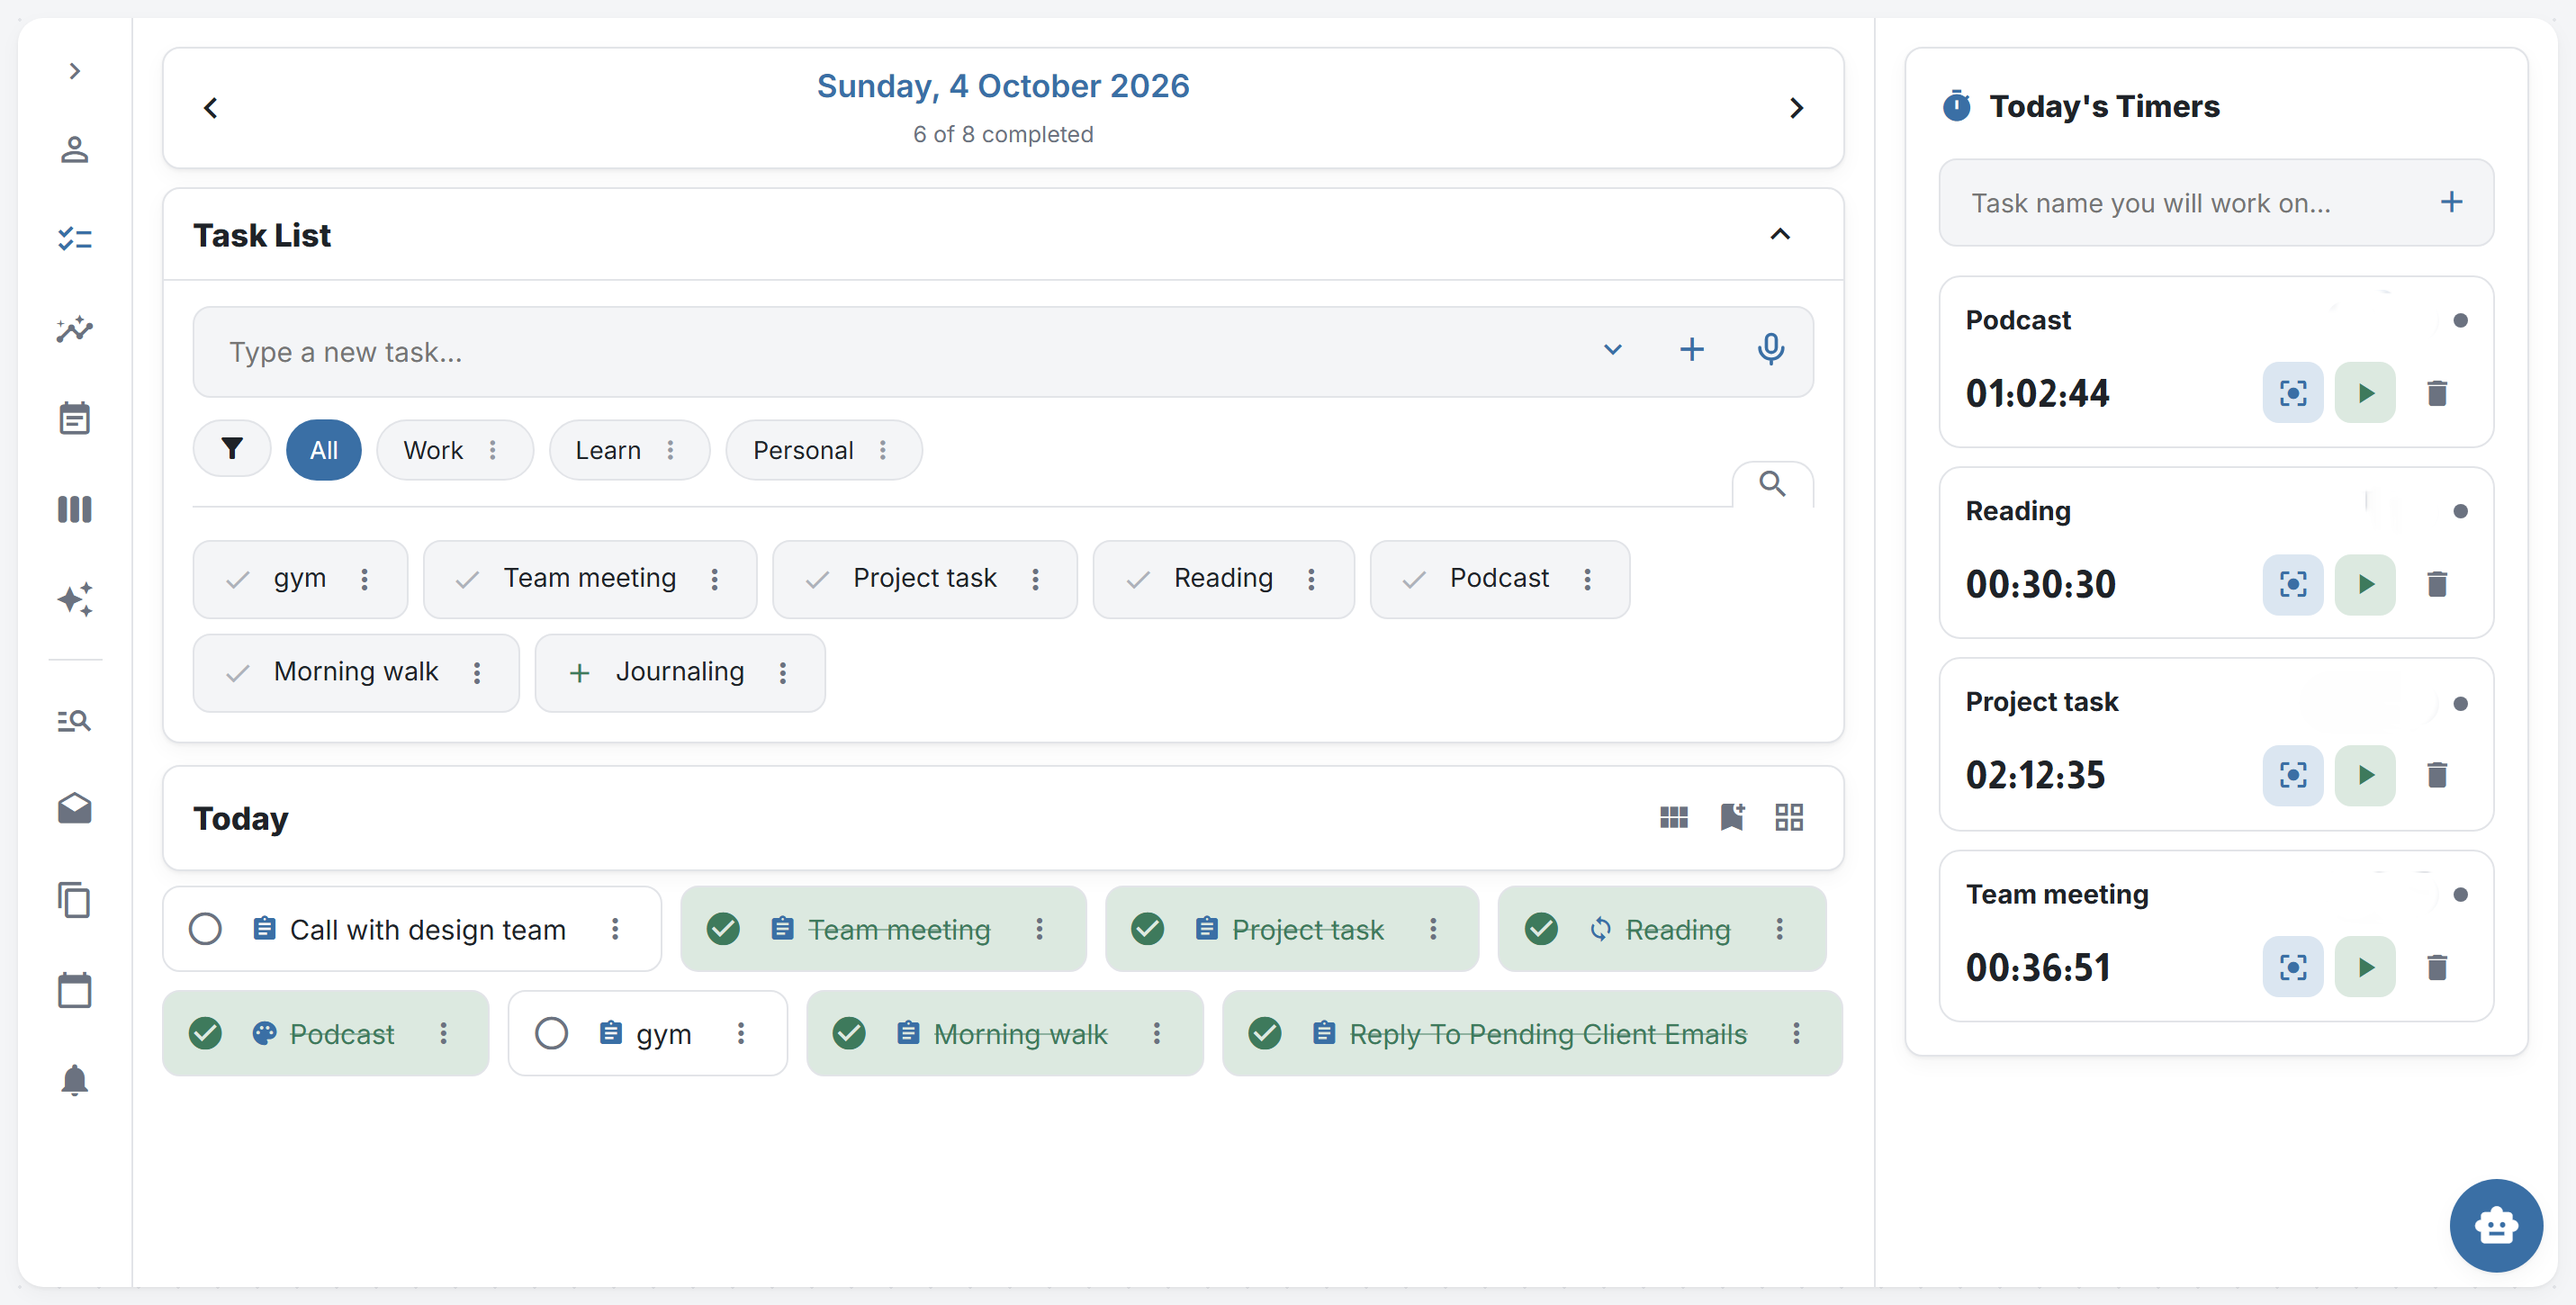
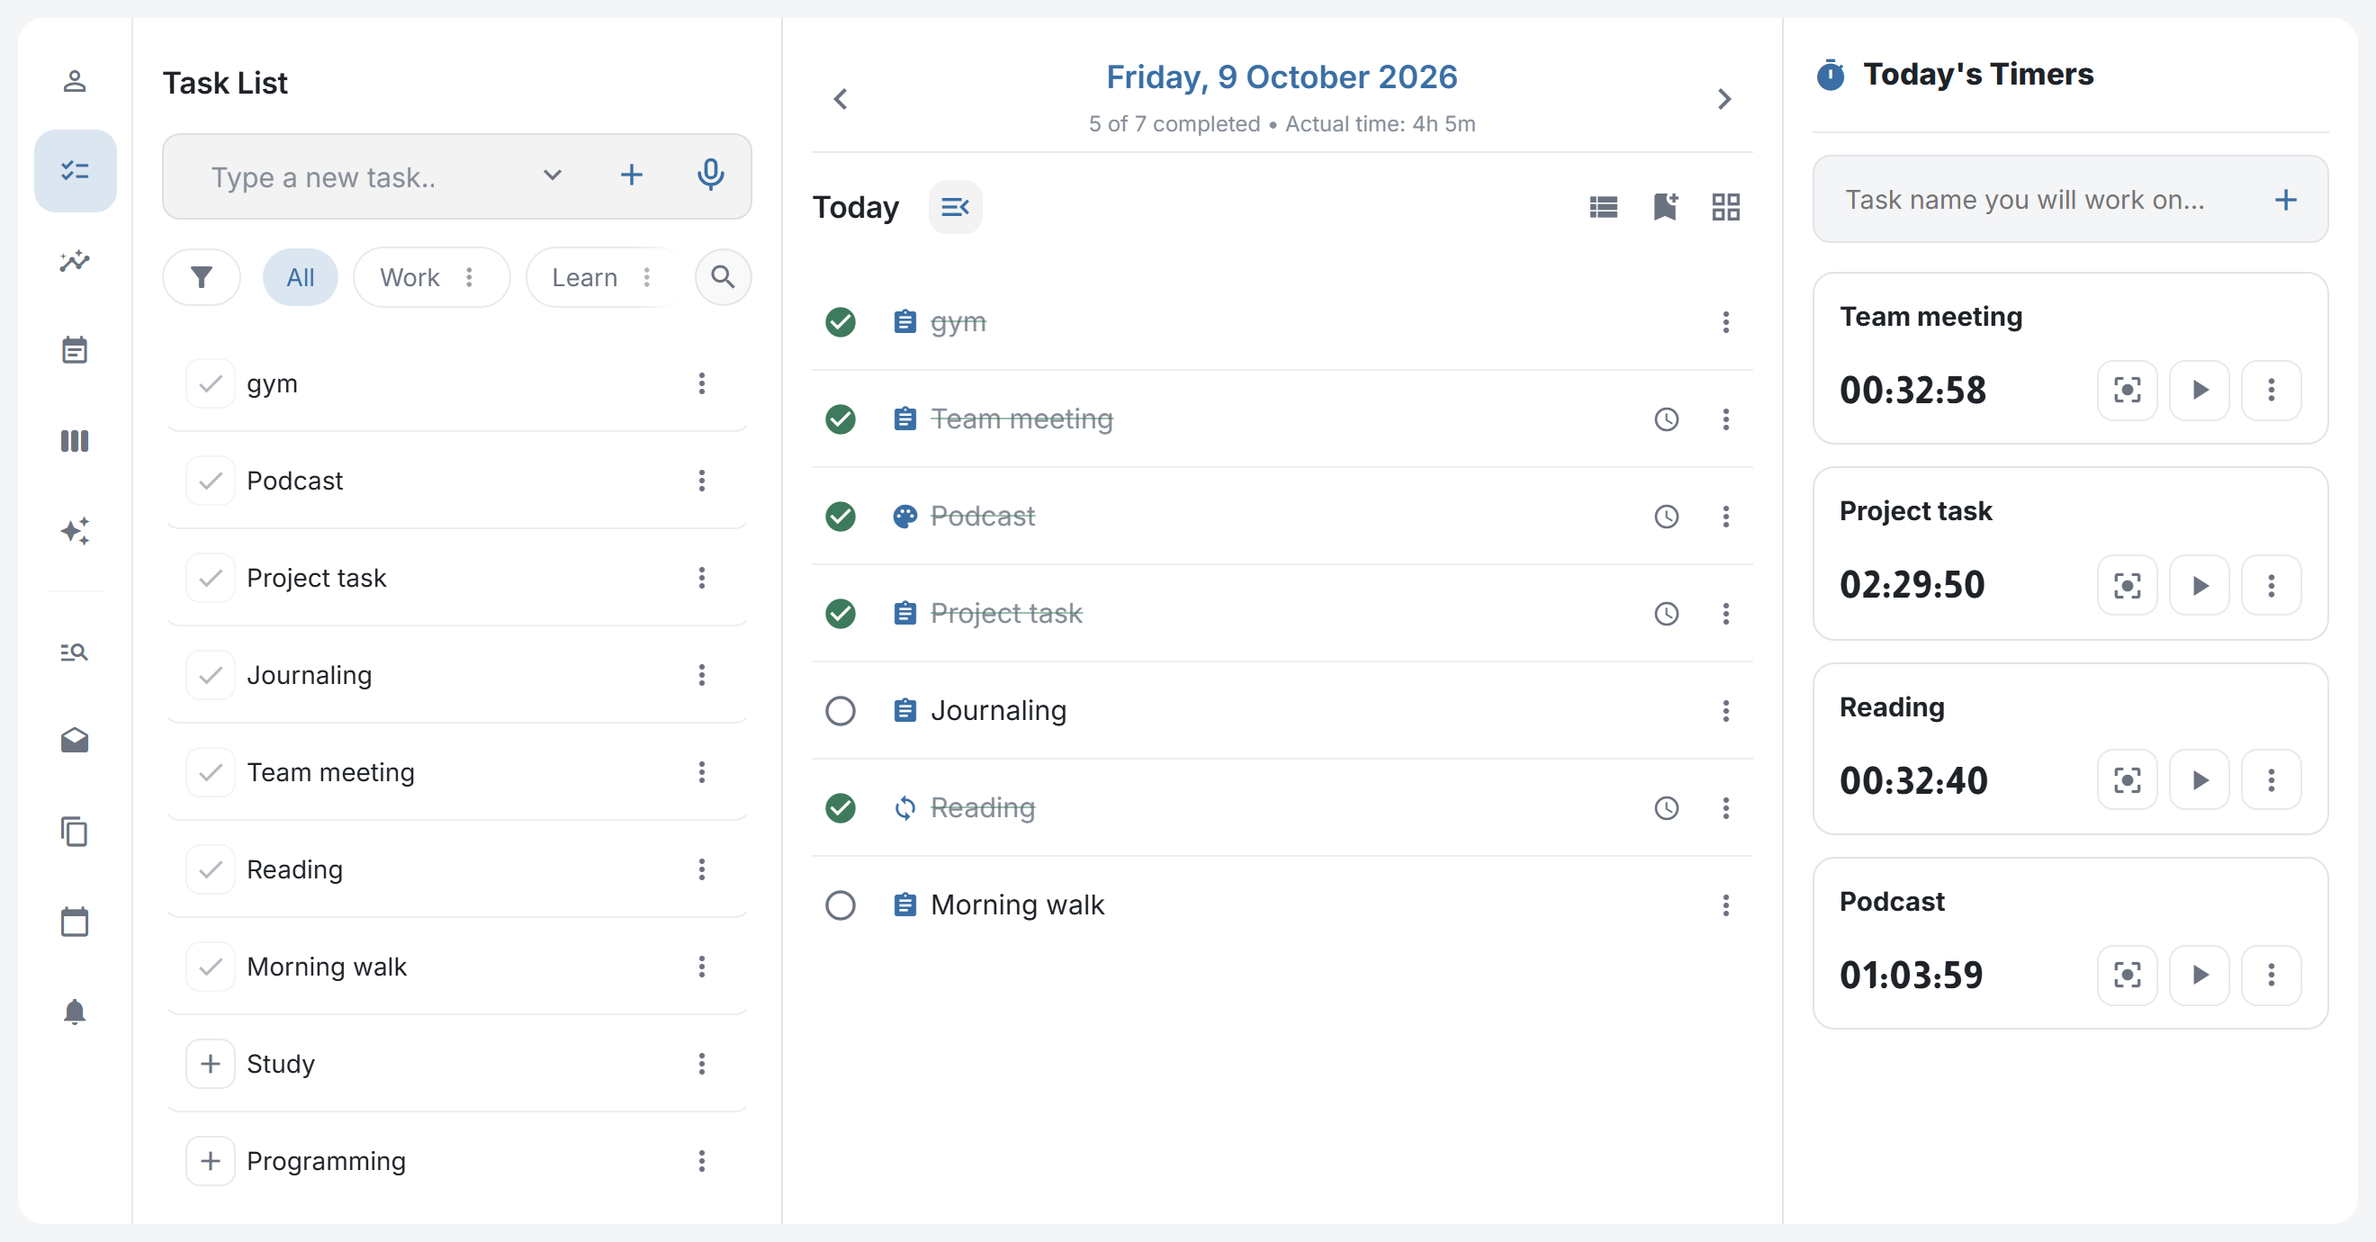
وضع القطعة الواحدة + فوكس مود بالألوان النظامية + تحديث صورة التطبيق

diff --git a/app/css/layout.css b/app/css/layout.css
@@ -950,7 +950,7 @@
 @media (min-width: 900px){
   /* إلصاق العمود الأوسط بكل الحواف (وضع اليوم فقط — باقي الصفحات
      بحشوها الطبيعي، والموبايل بقواعده الخاصة) */
-  body.is-day-view .main-col{ padding:12px; }
+  body.is-day-view .main-col{ padding:0 12px; }
   /* عمودان ملتصقان بطول الشاشة: القائمة جهة البداية واليوم بعدها مباشرة.
      شبكة صريحة (بدل flex) — القائمة الجانبية مقيدة بين 360px حد أدنى
      و420px حد أقصى حتى تبقى الأولوية لمهام اليوم: تتسع مع السحب حتى 420px فقط ولا تتجاوزها */
@@ -1140,8 +1140,8 @@ button:not(:disabled){ cursor:pointer; }
 .timer-col{ border-inline-start:none; padding:12px; flex-basis:320px; }
 @media (min-width: 1237px){
   /* توحيد الفجوة حول المؤقت مع فجوة المقبض (12px): بلا خط فاصل
-     وبلا حشو مضاعف على جهة عمود اليوم */
-  .timer-col{ border-inline-start:none; padding-inline-start:0; }
+     وبلا حشو مضاعف على جهة عمود اليوم — ومحاذاة رأسية مع الكروت */
+  .timer-col{ border-inline-start:none; padding-inline-start:0; padding-top:0; padding-bottom:0; }
 }
 .app-shell{ overflow-x:clip; }
 .timer-item,
@@ -1504,5 +1504,58 @@ html[dir="rtl"] .filter-strip-scroll{
   .side-nav.side-nav .side-nav-head .side-nav-btn:last-child{ flex:none; }
   .side-nav.side-nav .side-nav-btn .side-nav-label{ display:none; }
   .side-nav.side-nav .side-nav-divider{ width:30px; }
+}
+
+/* ============================================================
+   وضع "القطعة الواحدة" (سطح المكتب ≥1237px في عرض اليوم فقط):
+   الأعمدة الأربعة (الجانبي + القائمة + اليوم + المؤقت) ملتصقة
+   بلا فجوات ولا استدارة — يفصل بينها خط واحد فقط.
+   ============================================================ */
+@media (min-width: 1237px){
+  body:has(#content .day-split) .wrap{ overflow:hidden; }
+  body:has(#content .day-split) .main-col{ padding:0; }
+  body:has(#content .day-split) .side-nav{ background:var(--v-col); }
+  body:has(#content .day-split) .day-split{ gap:0; grid-template-columns:max(min(var(--bank-w, 32%), 420px), 360px) 1px minmax(0, 1fr); }
+  body:has(#content .day-split).bank-side-collapsed .day-split{ grid-template-columns:minmax(0, 1fr); }
+  body:has(#content .day-split) .day-split-bank.bank-wrap,
+  body:has(#content .day-split) .day-split-day{
+    background:var(--v-col);
+    border:none;
+    border-radius:0;
+    box-shadow:none;
+  }
+  /* المقبض خط 1px + مساحة إمساك غير مرئية حوله */
+  body:has(#content .day-split) .day-split-divider{
+    position:relative;
+    flex:0 0 1px; align-self:stretch; cursor:col-resize; touch-action:none;
+    display:block; background:var(--paper-line); border:none; padding:0; margin:0;
+  }
+  body:has(#content .day-split) .day-split-divider::after{
+    content:""; position:absolute; inset:0 -6px;
+  }
+  body:has(#content .day-split) .day-split-divider:hover{ background:var(--pen); }
+  body:has(#content .day-split) .timer-col{
+    padding:0;
+    border-inline-start:1px solid var(--paper-line);
+    display:flex; flex-direction:column; min-height:0;
+  }
+  /* #timerPanel غلاف وسيط بين العمود والكارت — يجب أن يملأ هو أيضًا
+     وإلا انقطعت سلسلة المرونة وبقي الكارت بحجم محتواه */
+  body:has(#content .day-split) .timer-col > #timerPanel{
+    flex:1 1 auto; min-height:0;
+    display:flex; flex-direction:column;
+  }
+  body:has(#content .day-split) .timer-panel-card{
+    background:var(--v-col);
+    border:none;
+    border-radius:0;
+    box-shadow:none;
+    flex:1 1 auto; min-height:0;
+    display:flex; flex-direction:column;
+  }
+  body:has(#content .day-split) .timer-panel-card .timer-list{
+    flex:1 1 auto; min-height:0; overflow-y:auto;
+    overscroll-behavior:contain; -webkit-overflow-scrolling:touch;
+  }
 }
 

diff --git a/app/css/modals.css b/app/css/modals.css
@@ -774,7 +774,7 @@ html[dir="ltr"] .bank-search.modal-search-box input {
   position: fixed;
   inset: 0;
   z-index: 300;
-  background: #0f1d33;
+  background: var(--v-app);
   display: none;
   align-items: center;
   justify-content: center;
@@ -792,19 +792,27 @@ html[dir="ltr"] .bank-search.modal-search-box input {
   position: absolute;
   top: 22px;
   inset-inline-start: 22px;
-  background: rgba(255, 255, 255, 0.08);
-  border: 1px solid rgba(255, 255, 255, 0.16);
-  color: #e7eef7;
+  background: transparent;
+  border: none;
+  color: var(--ink-soft);
+  cursor: pointer;
+  display: flex;
+  align-items: center;
+  justify-content: center;
+  width: 36px;
+  height: 36px;
+  border-radius: 50%;
 }
 .focus-close-btn .material-icons {
   font-size: 22px;
 }
 .focus-close-btn:hover {
-  background: rgba(255, 255, 255, 0.14);
+  background: transparent;
+  color: var(--ink);
 }
 .focus-mode-card {
   text-align: center;
-  color: #fff;
+  color: var(--ink);
   width: min(640px, 100%);
 }
 .focus-task-chip {
@@ -812,8 +820,8 @@ html[dir="ltr"] .bank-search.modal-search-box input {
   align-items: center;
   gap: 8px;
   margin-top: 26px;
-  background: rgba(255, 255, 255, 0.06);
-  border: 1px solid rgba(255, 255, 255, 0.14);
+  background: color-mix(in srgb, var(--ink-soft) 10%, transparent);
+  border: 1px solid color-mix(in srgb, var(--ink-soft) 20%, transparent);
   border-radius: 999px;
   padding: 8px 18px;
   font-weight: 700;
@@ -822,7 +830,7 @@ html[dir="ltr"] .bank-search.modal-search-box input {
 }
 .focus-task-chip .material-icons {
   font-size: 18px;
-  color: #9ecff5;
+  color: var(--pen);
 }
 .focus-digits {
   font-size: clamp(4.2rem, 17vw, 8rem);
@@ -835,7 +843,7 @@ html[dir="ltr"] .bank-search.modal-search-box input {
 .focus-bar {
   height: 7px;
   border-radius: 99px;
-  background: rgba(255, 255, 255, 0.1);
+  background: color-mix(in srgb, var(--ink-soft) 18%, transparent);
   overflow: hidden;
   margin-top: 8px;
 }
@@ -851,7 +859,7 @@ html[dir="ltr"] .bank-search.modal-search-box input {
   display: flex;
   justify-content: space-between;
   font-size: 0.78rem;
-  color: #8ba0bd;
+  color: var(--ink-soft);
   margin-top: 8px;
   min-height: 1.2em;
 }
@@ -885,9 +893,9 @@ html[dir="ltr"] .bank-search.modal-search-box input {
   display: inline-flex;
   align-items: center;
   gap: 8px;
-  background: rgba(255, 255, 255, 0.07);
-  border: 1px solid rgba(255, 255, 255, 0.18);
-  color: #e7eef7;
+  background: color-mix(in srgb, var(--ink-soft) 10%, transparent);
+  border: 1px solid color-mix(in srgb, var(--ink-soft) 25%, transparent);
+  color: var(--ink);
   border-radius: 12px;
   padding: 12px 22px;
   font-family: inherit;

diff --git a/app/sw.js b/app/sw.js
@@ -5,7 +5,7 @@
 // رقم الإصدار (CACHE_VERSION) بيتغيّر تلقائيًا مع أي تغيير في المحتوى.
 // ============================================================
 
-const CACHE_VERSION = 'v1864f80031';
+const CACHE_VERSION = 'v639e44e5e3';
 const CACHE_NAME = 'daily-tasks-shell-' + CACHE_VERSION;
 
 const PRECACHE_URLS = [
